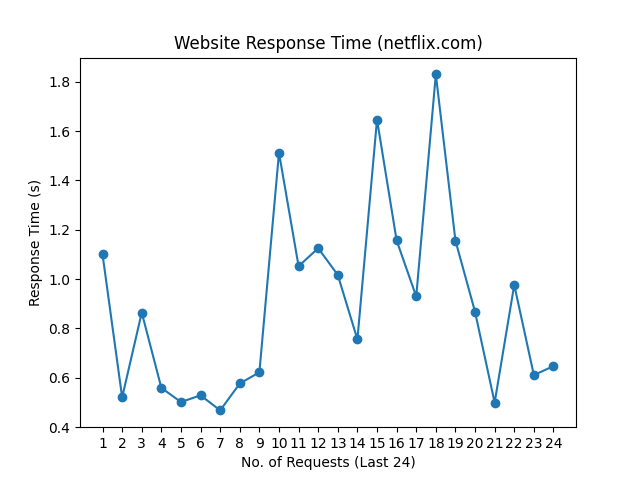
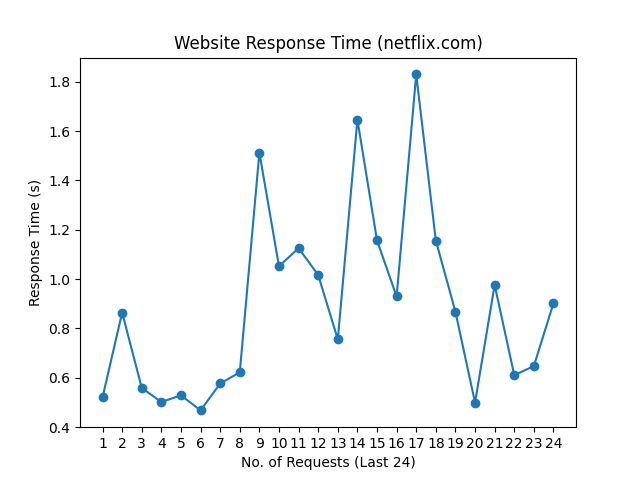
update README.md, history and graph

Changed region(s): [[0.1562, 0.125, 0.875, 0.875]]

diff --git a/README.md b/README.md
@@ -1,10 +1,10 @@
 # Web Monitoring
 
-Last Checked: 22/09/2023 08:59
+Last Checked: 23/09/2023 08:57
 
 | Website | Response Time (s) | Status | Avg Uptime (%) |
 |---------|-------------------|--------|----------------|
 | www.thiswebsiteisdown.net | 0 <br> <img src="graph/thiswebsiteisdown.net.png" alt="Graph" width="200" height="200">  | ❌ Down | 0.00 |
-| www.netflix.com | 0.647074 <br> <img src="graph/netflix.com.png" alt="Graph" width="200" height="200">  | ✅ Up | 100.00 |
-| www.google.com | 0.104067 <br> <img src="graph/google.com.png" alt="Graph" width="200" height="200">  | ✅ Up | 100.00 |
-| www.facebook.com | 0.284371 <br> <img src="graph/facebook.com.png" alt="Graph" width="200" height="200">  | ✅ Up | 100.00 |
+| www.netflix.com | 0.902271 <br> <img src="graph/netflix.com.png" alt="Graph" width="200" height="200">  | ✅ Up | 100.00 |
+| www.google.com | 0.418522 <br> <img src="graph/google.com.png" alt="Graph" width="200" height="200">  | ✅ Up | 100.00 |
+| www.facebook.com | 0.398314 <br> <img src="graph/facebook.com.png" alt="Graph" width="200" height="200">  | ✅ Up | 100.00 |
